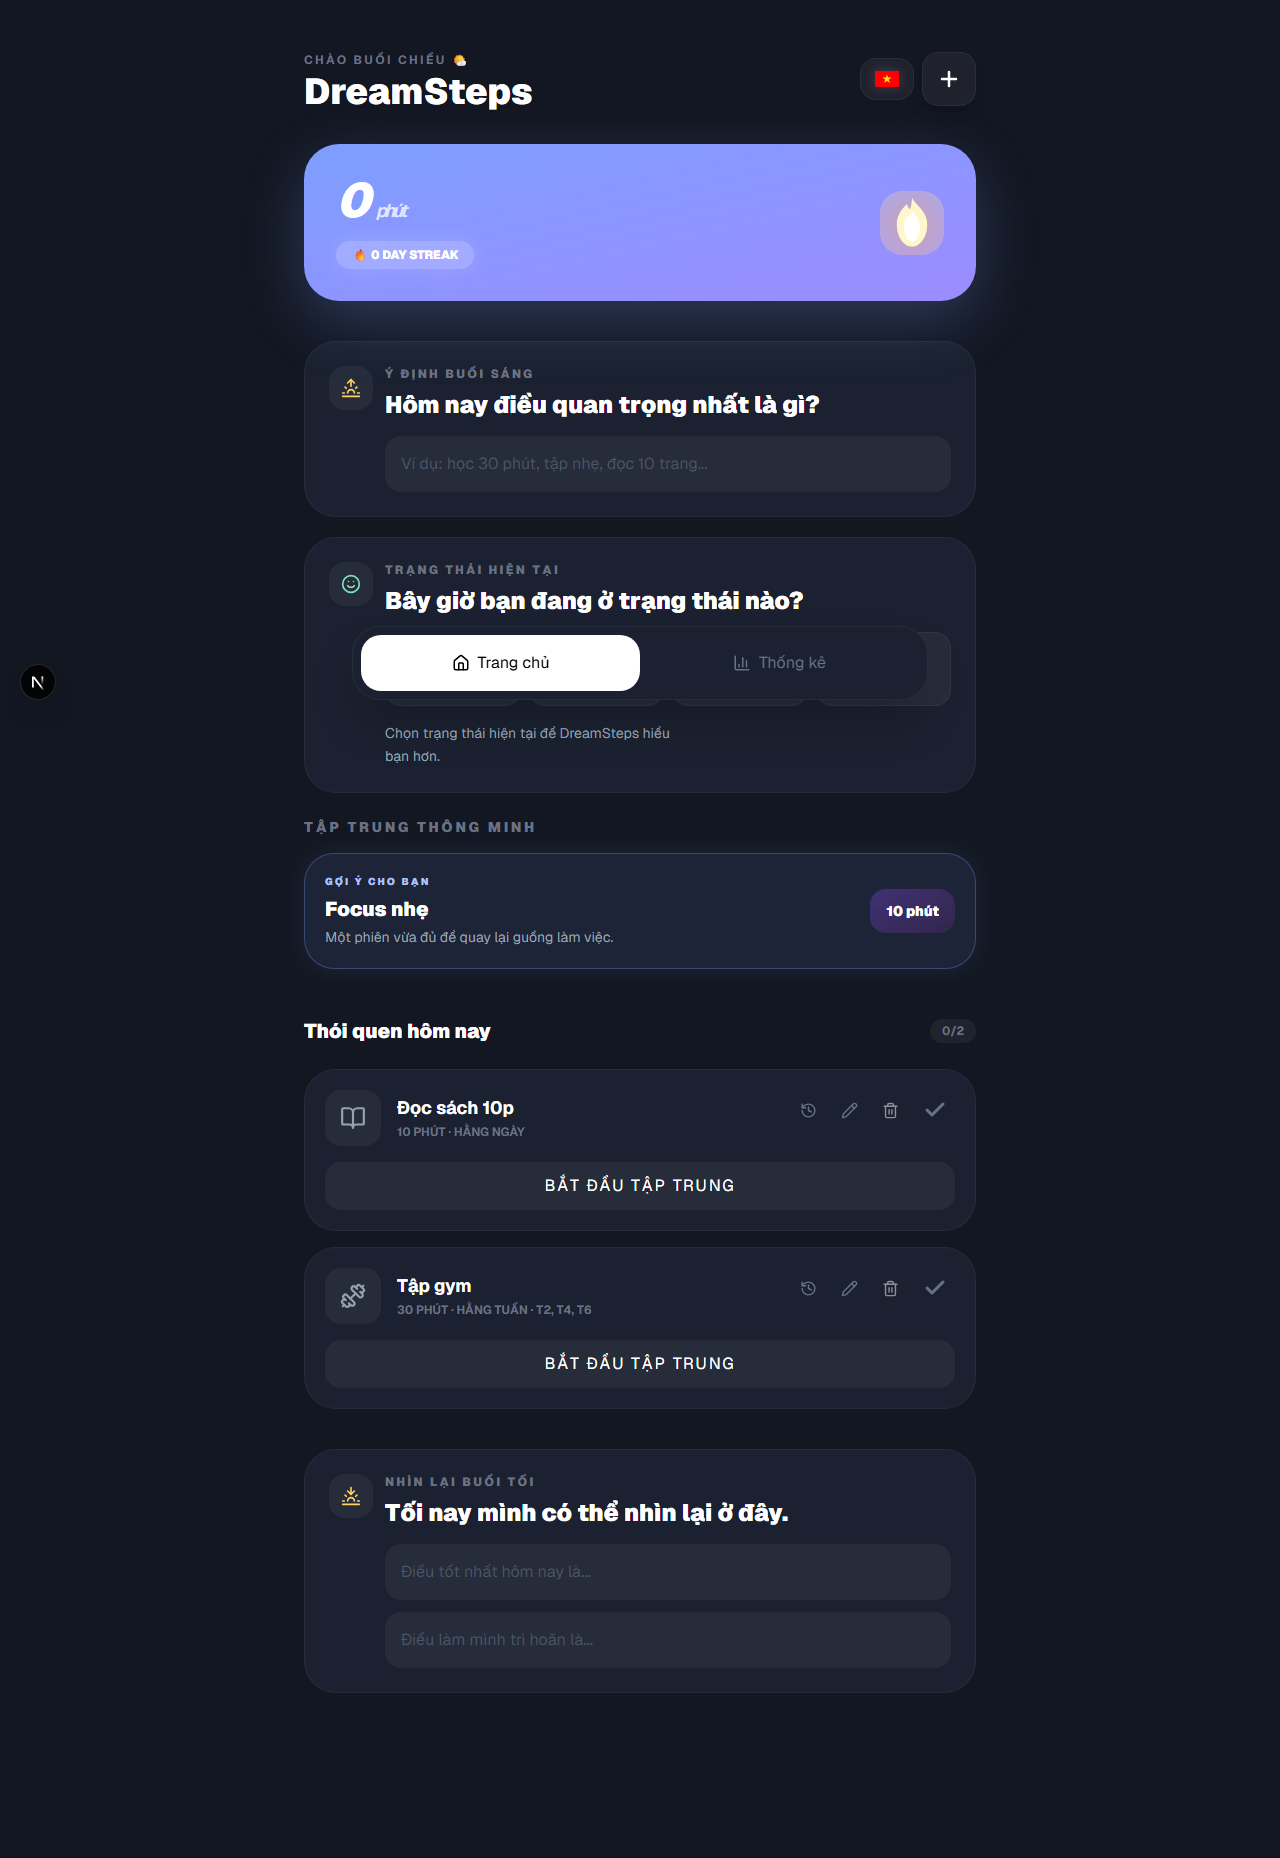
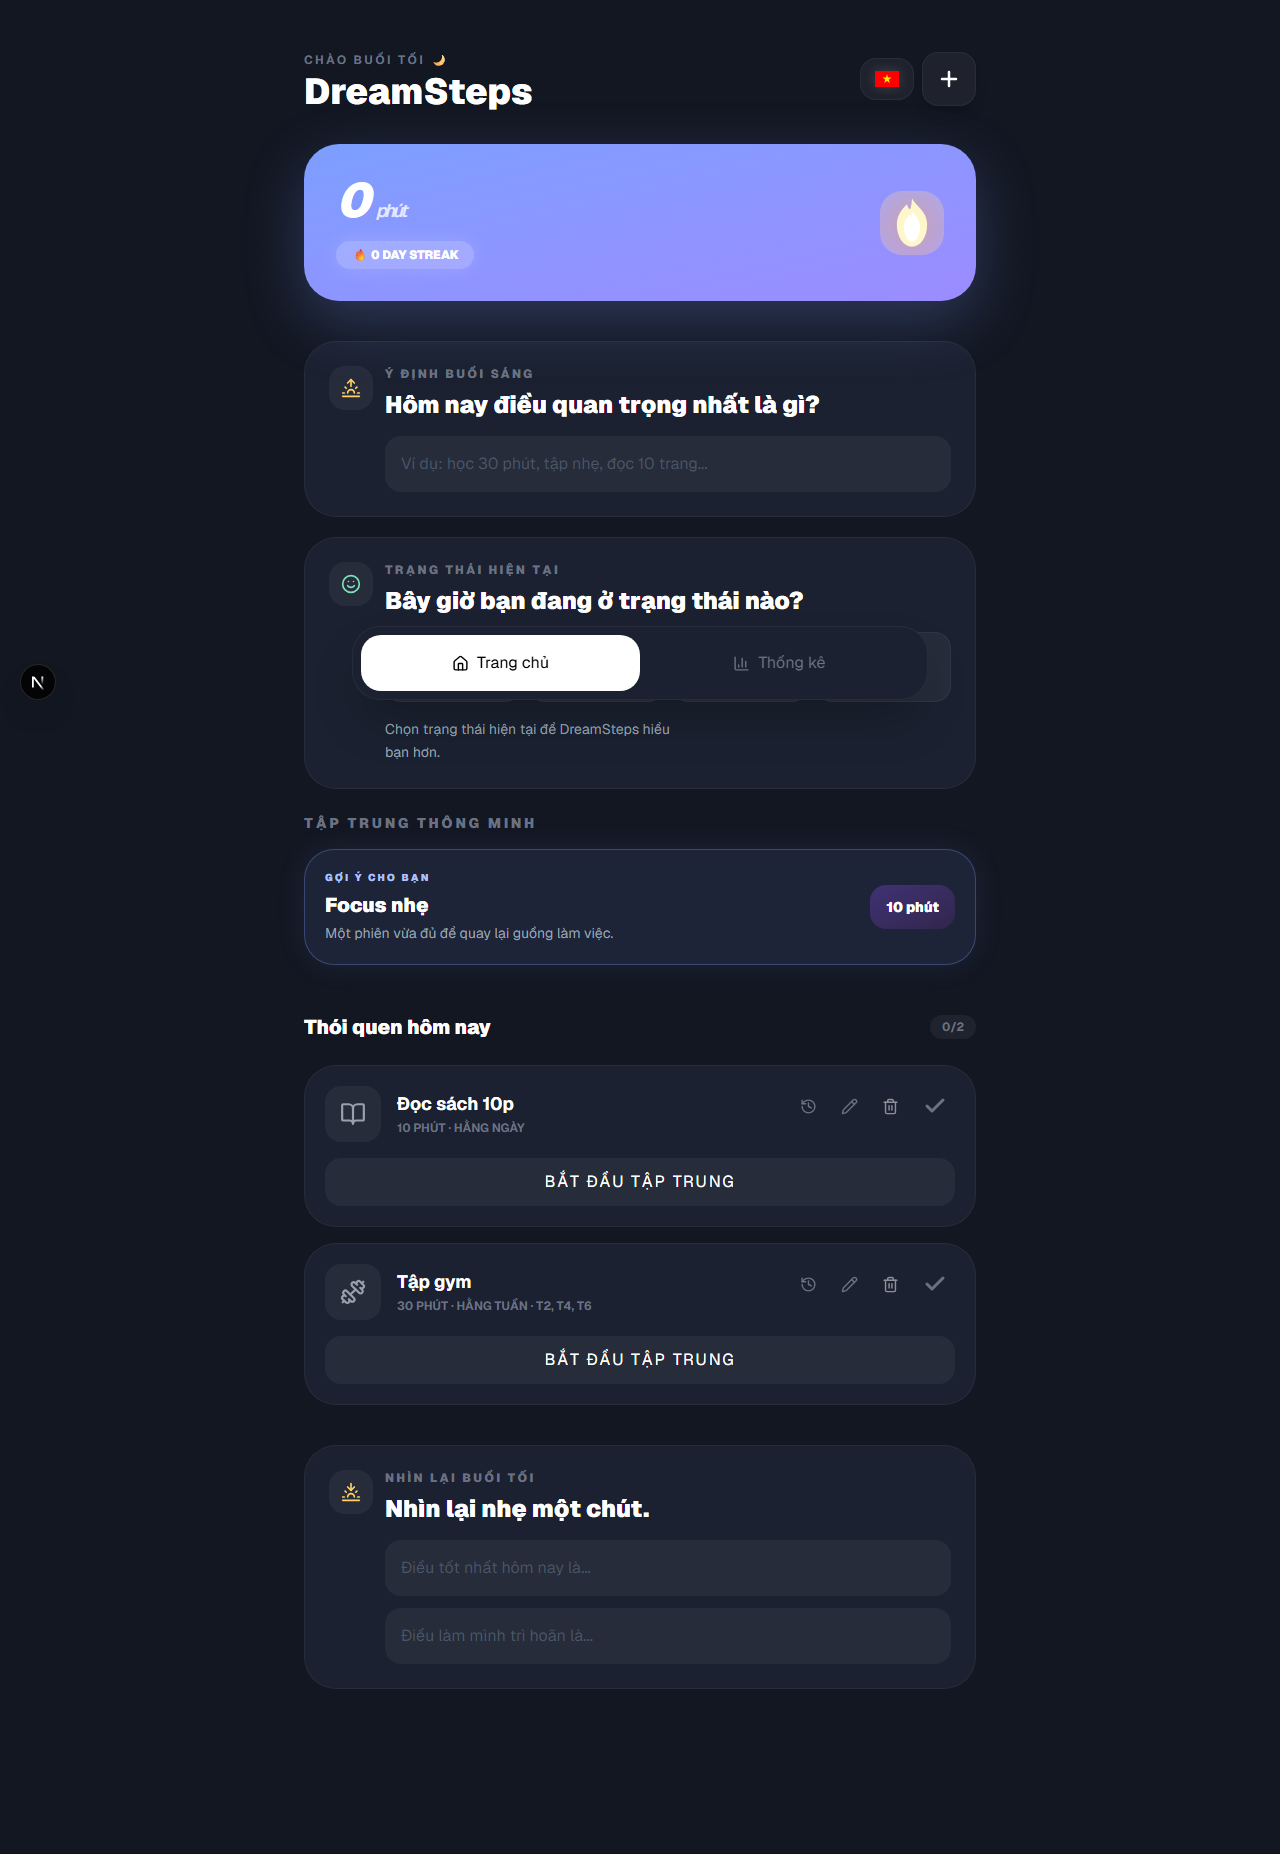
Optimize mobile and foldable layouts

diff --git a/components/FocusModal.tsx b/components/FocusModal.tsx
@@ -467,7 +467,7 @@ export default function FocusModal({
 
   return (
     <AnimatePresence mode="wait">
-      <div key="focus-modal-root" className="fixed inset-0 z-[100] flex items-center justify-center p-6">
+      <div key="focus-modal-root" className="fixed inset-0 z-[100] flex items-center justify-center p-3 sm:p-6">
         <motion.div
           initial={{ opacity: 0 }}
           animate={{ opacity: 1 }}
@@ -482,26 +482,26 @@ export default function FocusModal({
           exit={{ scale: 0.85, opacity: 0, y: 20 }}
           className={`relative ${APP_THEMES[appTheme as keyof typeof APP_THEMES]?.card || "bg-[#171A21]"} w-full ${
   deepFocus ? "max-w-2xl" : "max-w-sm md:max-w-lg"
-} max-h-[calc(100dvh-16px)] overflow-hidden rounded-[34px] sm:rounded-[40px] p-4 sm:p-6 md:p-8 border border-white/10 text-center shadow-[0_30px_60px_rgba(0,0,0,0.5)]`}
+} max-h-[calc(100dvh-24px)] overflow-y-auto rounded-[30px] border border-white/10 p-4 text-center shadow-[0_30px_60px_rgba(0,0,0,0.5)] sm:rounded-[40px] sm:p-6 md:p-8`}
         >
           {!showCompliment && (
-            <div className="absolute top-8 right-8 z-10 flex gap-2">
+            <div className="absolute right-5 top-5 z-10 flex gap-2 sm:right-8 sm:top-8">
               <button
                 type="button"
                 aria-label={deepFocus ? text.deepFocusOff : text.deepFocusOn}
                 onClick={() => setDeepFocus((prev) => !prev)}
-                className="text-gray-600 hover:text-white transition-colors"
+                className="p-1 text-gray-600 transition-colors hover:text-white"
               >
-                {deepFocus ? <Maximize2 size={24} /> : <Minimize2 size={24} />}
+                {deepFocus ? <Maximize2 size={22} /> : <Minimize2 size={22} />}
               </button>
 
               <button
                 type="button"
                 aria-label={text.close}
                 onClick={handleClose}
-                className="text-gray-600 hover:text-white transition-colors"
+                className="p-1 text-gray-600 transition-colors hover:text-white"
               >
-                <X size={28} />
+                <X size={25} />
               </button>
             </div>
           )}
@@ -515,8 +515,8 @@ export default function FocusModal({
             {title === "Tiny Start" ? localizedSessionLabel : title || localizedSessionLabel}
           </span>
 
-          <div className="relative my-7 sm:my-9 flex justify-center">
-            <div className="relative flex h-[220px] w-[220px] sm:h-[236px] sm:w-[236px] items-center justify-center">
+          <div className="relative my-6 flex justify-center sm:my-9">
+            <div className="relative flex h-[min(52vw,210px)] w-[min(52vw,210px)] items-center justify-center sm:h-[236px] sm:w-[236px]">
               <svg
                 viewBox="0 0 260 260"
                 className="absolute inset-0 h-full w-full -rotate-90"
@@ -544,7 +544,7 @@ export default function FocusModal({
               </svg>
 
               <div className="relative z-10 flex max-w-[210px] flex-col items-center justify-center text-center">
-                <div className="max-w-full whitespace-nowrap text-[48px] sm:text-[56px] font-black italic tracking-[-0.08em] text-white leading-tight tabular-nums px-2">
+                <div className="max-w-full whitespace-nowrap px-2 text-[44px] font-black italic leading-tight tracking-[-0.08em] text-white tabular-nums sm:text-[56px]">
                   {formatTime(timeLeft)}
                 </div>
 
@@ -557,30 +557,30 @@ export default function FocusModal({
 
           {!showCompliment && (
             <>
-              <div className="flex items-center justify-center gap-6">
+              <div className="flex items-center justify-center gap-5 sm:gap-6">
                 <button
                   type="button"
                   aria-label="Reset phiên focus"
                   onClick={resetSession}
-                  className="h-12 w-12 rounded-2xl bg-white/5 text-gray-500 hover:text-white hover:bg-white/10 transition-all flex items-center justify-center"
+                  className="flex h-11 w-11 items-center justify-center rounded-2xl bg-white/5 text-gray-500 transition-all hover:bg-white/10 hover:text-white sm:h-12 sm:w-12"
                 >
-                  <RotateCcw size={24} />
+                  <RotateCcw size={22} />
                 </button>
 
                 <button
                   type="button"
                   aria-label={isActive ? "Tạm dừng phiên focus" : "Bắt đầu phiên focus"}
                   onClick={() => setIsActive((prev) => !prev)}
-                  className={`h-20 w-20 rounded-[28px] flex items-center justify-center transition-all shadow-xl ${
+                  className={`flex h-16 w-16 items-center justify-center rounded-[24px] transition-all shadow-xl sm:h-20 sm:w-20 sm:rounded-[28px] ${
                     isActive
                       ? "bg-white text-black scale-95"
                       : "bg-[#7C9EFF] text-white shadow-[#7C9EFF]/30 scale-100"
                   }`}
                 >
                   {isActive ? (
-                    <Pause size={34} fill="currentColor" />
+                    <Pause size={30} fill="currentColor" />
                   ) : (
-                    <Play size={34} fill="currentColor" className="ml-1.5" />
+                    <Play size={30} fill="currentColor" className="ml-1.5" />
                   )}
                 </button>
 
@@ -614,7 +614,7 @@ export default function FocusModal({
                 </button>
               </div>
 
-              <div className="flex items-center justify-center gap-3 flex-wrap">
+              <div className="grid grid-cols-3 gap-3 sm:grid-cols-6">
                 {AMBIENT_SOUNDS.map((sound) => {
                   const Icon = sound.icon;
                   const active = selectedSound === sound.id;
@@ -628,7 +628,7 @@ export default function FocusModal({
     setSelectedSound(sound.id);
     setSoundEnabled(true);
   }}
-  className={`h-12 w-12 rounded-2xl border flex items-center justify-center transition-all ${
+  className={`mx-auto flex h-12 w-12 items-center justify-center rounded-2xl border transition-all ${
     active
       ? "border-[#7C9EFF] bg-[#7C9EFF]/20 text-white"
       : "border-white/5 bg-white/5 text-gray-500 hover:bg-white/10 hover:text-white"

diff --git a/components/MoodSelectorCard.tsx b/components/MoodSelectorCard.tsx
@@ -32,23 +32,23 @@ function MoodSelectorCard({
 }: MoodSelectorCardProps) {
   return (
     <section
-      className={`mt-5 rounded-[32px] border border-white/5 ${surfaceClassName} p-5 sm:p-6`}
+      className={`mt-5 rounded-[28px] border border-white/5 ${surfaceClassName} p-4 sm:rounded-[32px] sm:p-6`}
     >
       <div className="flex items-start gap-3">
-        <div className="rounded-2xl bg-white/5 p-3 text-[#7EE2B8]">
-          <Smile size={20} />
+        <div className="rounded-2xl bg-white/5 p-2.5 text-[#7EE2B8] sm:p-3">
+          <Smile size={18} className="sm:size-5" />
         </div>
 
         <div className="flex-1">
-          <p className="text-xs font-black uppercase tracking-[0.2em] text-gray-500">
+          <p className="text-[11px] font-black uppercase tracking-[0.2em] text-gray-500 sm:text-xs">
             {title}
           </p>
 
-          <h3 className="mt-2 text-xl sm:text-2xl font-black leading-tight">
+          <h3 className="mt-2 text-lg font-black leading-tight sm:text-2xl">
             {heading}
           </h3>
 
-          <div className="mt-4 grid grid-cols-2 md:grid-cols-4 gap-2">
+          <div className="mt-4 grid grid-cols-2 gap-2 lg:grid-cols-4">
             {moods.map((mood) => {
               const Icon = mood.icon;
               const active = selectedMood === mood.value;
@@ -58,7 +58,7 @@ function MoodSelectorCard({
                   key={mood.value}
                   type="button"
                   onClick={() => onSelectMood(mood.value)}
-                  className={`flex items-center gap-2 rounded-2xl border p-3 text-left text-xs font-black transition-all ${
+                  className={`flex min-h-11 items-center gap-2 rounded-2xl border px-3 py-2.5 text-left text-xs font-black leading-snug transition-all ${
                     active
                       ? "border-[#7C9EFF] bg-[#7C9EFF]/20 text-white"
                       : "border-white/5 bg-white/5 text-gray-500 hover:text-white"

diff --git a/components/ReflectionCard.tsx b/components/ReflectionCard.tsx
@@ -35,19 +35,19 @@ function ReflectionCard({
     <section
       className={`${
         type === "morning" ? "mt-6" : "mt-10"
-      } rounded-[32px] border border-white/5 ${surfaceClassName} p-5 sm:p-6`}
+      } rounded-[28px] border border-white/5 ${surfaceClassName} p-4 sm:rounded-[32px] sm:p-6`}
     >
       <div className="flex items-start gap-3">
-        <div className="rounded-2xl bg-white/5 p-3 text-[#FFD166]">
-          <Icon size={20} />
+        <div className="rounded-2xl bg-white/5 p-2.5 text-[#FFD166] sm:p-3">
+          <Icon size={18} className="sm:size-5" />
         </div>
 
         <div className="flex-1">
-          <p className="text-xs font-black uppercase tracking-[0.2em] text-gray-500">
+          <p className="text-[11px] font-black uppercase tracking-[0.2em] text-gray-500 sm:text-xs">
             {title}
           </p>
 
-          <h3 className="mt-2 text-xl sm:text-2xl font-black leading-tight">
+          <h3 className="mt-2 text-lg font-black leading-tight sm:text-2xl">
             {heading}
           </h3>
 
@@ -55,7 +55,7 @@ function ReflectionCard({
             value={value}
             onChange={(event) => onChange(event.target.value)}
             placeholder={placeholder}
-            className="mt-4 w-full rounded-2xl bg-white/5 p-4 text-[15px] text-white placeholder:text-gray-600 focus:outline-none focus:ring-2 focus:ring-[#7C9EFF]"
+            className="mt-4 w-full rounded-2xl bg-white/5 px-4 py-3.5 text-sm text-white placeholder:text-gray-600 focus:outline-none focus:ring-2 focus:ring-[#7C9EFF] sm:p-4 sm:text-[15px]"
           />
 
           {secondaryPlaceholder && (
@@ -65,7 +65,7 @@ function ReflectionCard({
                 onSecondaryChange?.(event.target.value)
               }
               placeholder={secondaryPlaceholder}
-              className="mt-3 w-full rounded-2xl bg-white/5 p-4 text-[15px] text-white placeholder:text-gray-600 focus:outline-none focus:ring-2 focus:ring-[#7C9EFF]"
+              className="mt-3 w-full rounded-2xl bg-white/5 px-4 py-3.5 text-sm text-white placeholder:text-gray-600 focus:outline-none focus:ring-2 focus:ring-[#7C9EFF] sm:p-4 sm:text-[15px]"
             />
           )}
         </div>

diff --git a/app/page.tsx b/app/page.tsx
@@ -2002,7 +2002,7 @@ export default function HomePage() {
     <main
   className={`min-h-screen ${currentTheme.background} px-3 py-3 text-white transition-colors duration-700 sm:p-5 font-sans`}
 >
-      <div className="mx-auto w-full max-w-md pb-[calc(9rem+env(safe-area-inset-bottom))] md:max-w-2xl">
+      <div className="mx-auto w-full max-w-md pb-[calc(9rem+env(safe-area-inset-bottom))] md:max-w-xl lg:max-w-2xl">
         <header className="flex items-start justify-between pt-4 sm:pt-8">
           <motion.div initial={{ opacity: 0, x: -20 }} animate={{ opacity: 1, x: 0 }}>
             {activeTab === "home" && (
@@ -2028,6 +2028,7 @@ export default function HomePage() {
                 alt="language"
                 width={24}
                 height={16}
+                priority
                 className="h-4 w-6 object-cover drop-shadow-[0_0_6px_rgba(255,255,255,0.15)]"
               />
             </button>
@@ -2059,10 +2060,10 @@ export default function HomePage() {
                 <motion.div
                   initial={{ opacity: 0, y: 20 }}
                   animate={{ opacity: 1, y: 0 }}
-                  className={`flex items-center justify-between rounded-[28px] bg-gradient-to-br ${currentTheme.primaryGradient} p-5 ${currentTheme.primaryShadow} transition-all duration-700 sm:rounded-[35px] sm:p-8`}
+                  className={`flex items-center justify-between rounded-[26px] bg-gradient-to-br ${currentTheme.primaryGradient} p-4 ${currentTheme.primaryShadow} transition-all duration-700 sm:rounded-[35px] sm:p-8`}
                 >
                 <div>
-                  <h2 className="text-4xl font-black italic tracking-tighter sm:text-5xl">
+                  <h2 className="text-[34px] font-black italic tracking-tighter sm:text-5xl">
                     <AnimatedCounter value={momentum} />
                     <span className="ml-2 text-base font-medium opacity-80 sm:text-lg">{t.common.shortMinutes}</span>
                   </h2>
@@ -2078,7 +2079,7 @@ export default function HomePage() {
                   </motion.div>
                 </div>
 
-                <div className="relative flex h-14 w-14 shrink-0 items-center justify-center overflow-hidden rounded-[20px] bg-white/20 sm:h-16 sm:w-16 sm:rounded-[22px]">
+                <div className="relative flex h-[52px] w-[52px] shrink-0 items-center justify-center overflow-hidden rounded-[19px] bg-white/20 sm:h-16 sm:w-16 sm:rounded-[22px]">
                   <motion.div
                     animate={{
                       opacity: [0.2, 0.45, 0.2],

diff --git a/components/SmartFocusCard.tsx b/components/SmartFocusCard.tsx
@@ -45,7 +45,7 @@ function SmartFocusCard({
         whileTap={{ scale: 0.98 }}
         type="button"
         onClick={onStartSuggested}
-        className={`w-full rounded-[26px] border ${accentBorderClassName} ${accentBgClassName} p-4 text-left shadow-[0_0_30px_rgba(124,158,255,0.1)] transition-all duration-700 sm:rounded-[30px] sm:p-5`}
+        className={`w-full rounded-[24px] border ${accentBorderClassName} ${accentBgClassName} p-4 text-left shadow-[0_0_30px_rgba(124,158,255,0.1)] transition-all duration-700 sm:rounded-[30px] sm:p-5`}
       >
         <div className="flex items-center justify-between gap-3">
           <div className="min-w-0 flex-1">
@@ -55,11 +55,11 @@ function SmartFocusCard({
               {suggestedLabel}
             </p>
 
-            <h3 className="mt-2 text-lg font-black leading-tight sm:text-xl">
+            <h3 className="mt-2 text-base font-black leading-tight sm:text-xl">
               {suggestedSession.title}
             </h3>
 
-            <p className="mt-1 max-w-[32ch] text-sm leading-relaxed text-gray-400 text-pretty">
+            <p className="mt-1 max-w-[32ch] text-xs leading-relaxed text-gray-400 text-pretty sm:text-sm">
               {suggestedSession.description}
             </p>
           </div>